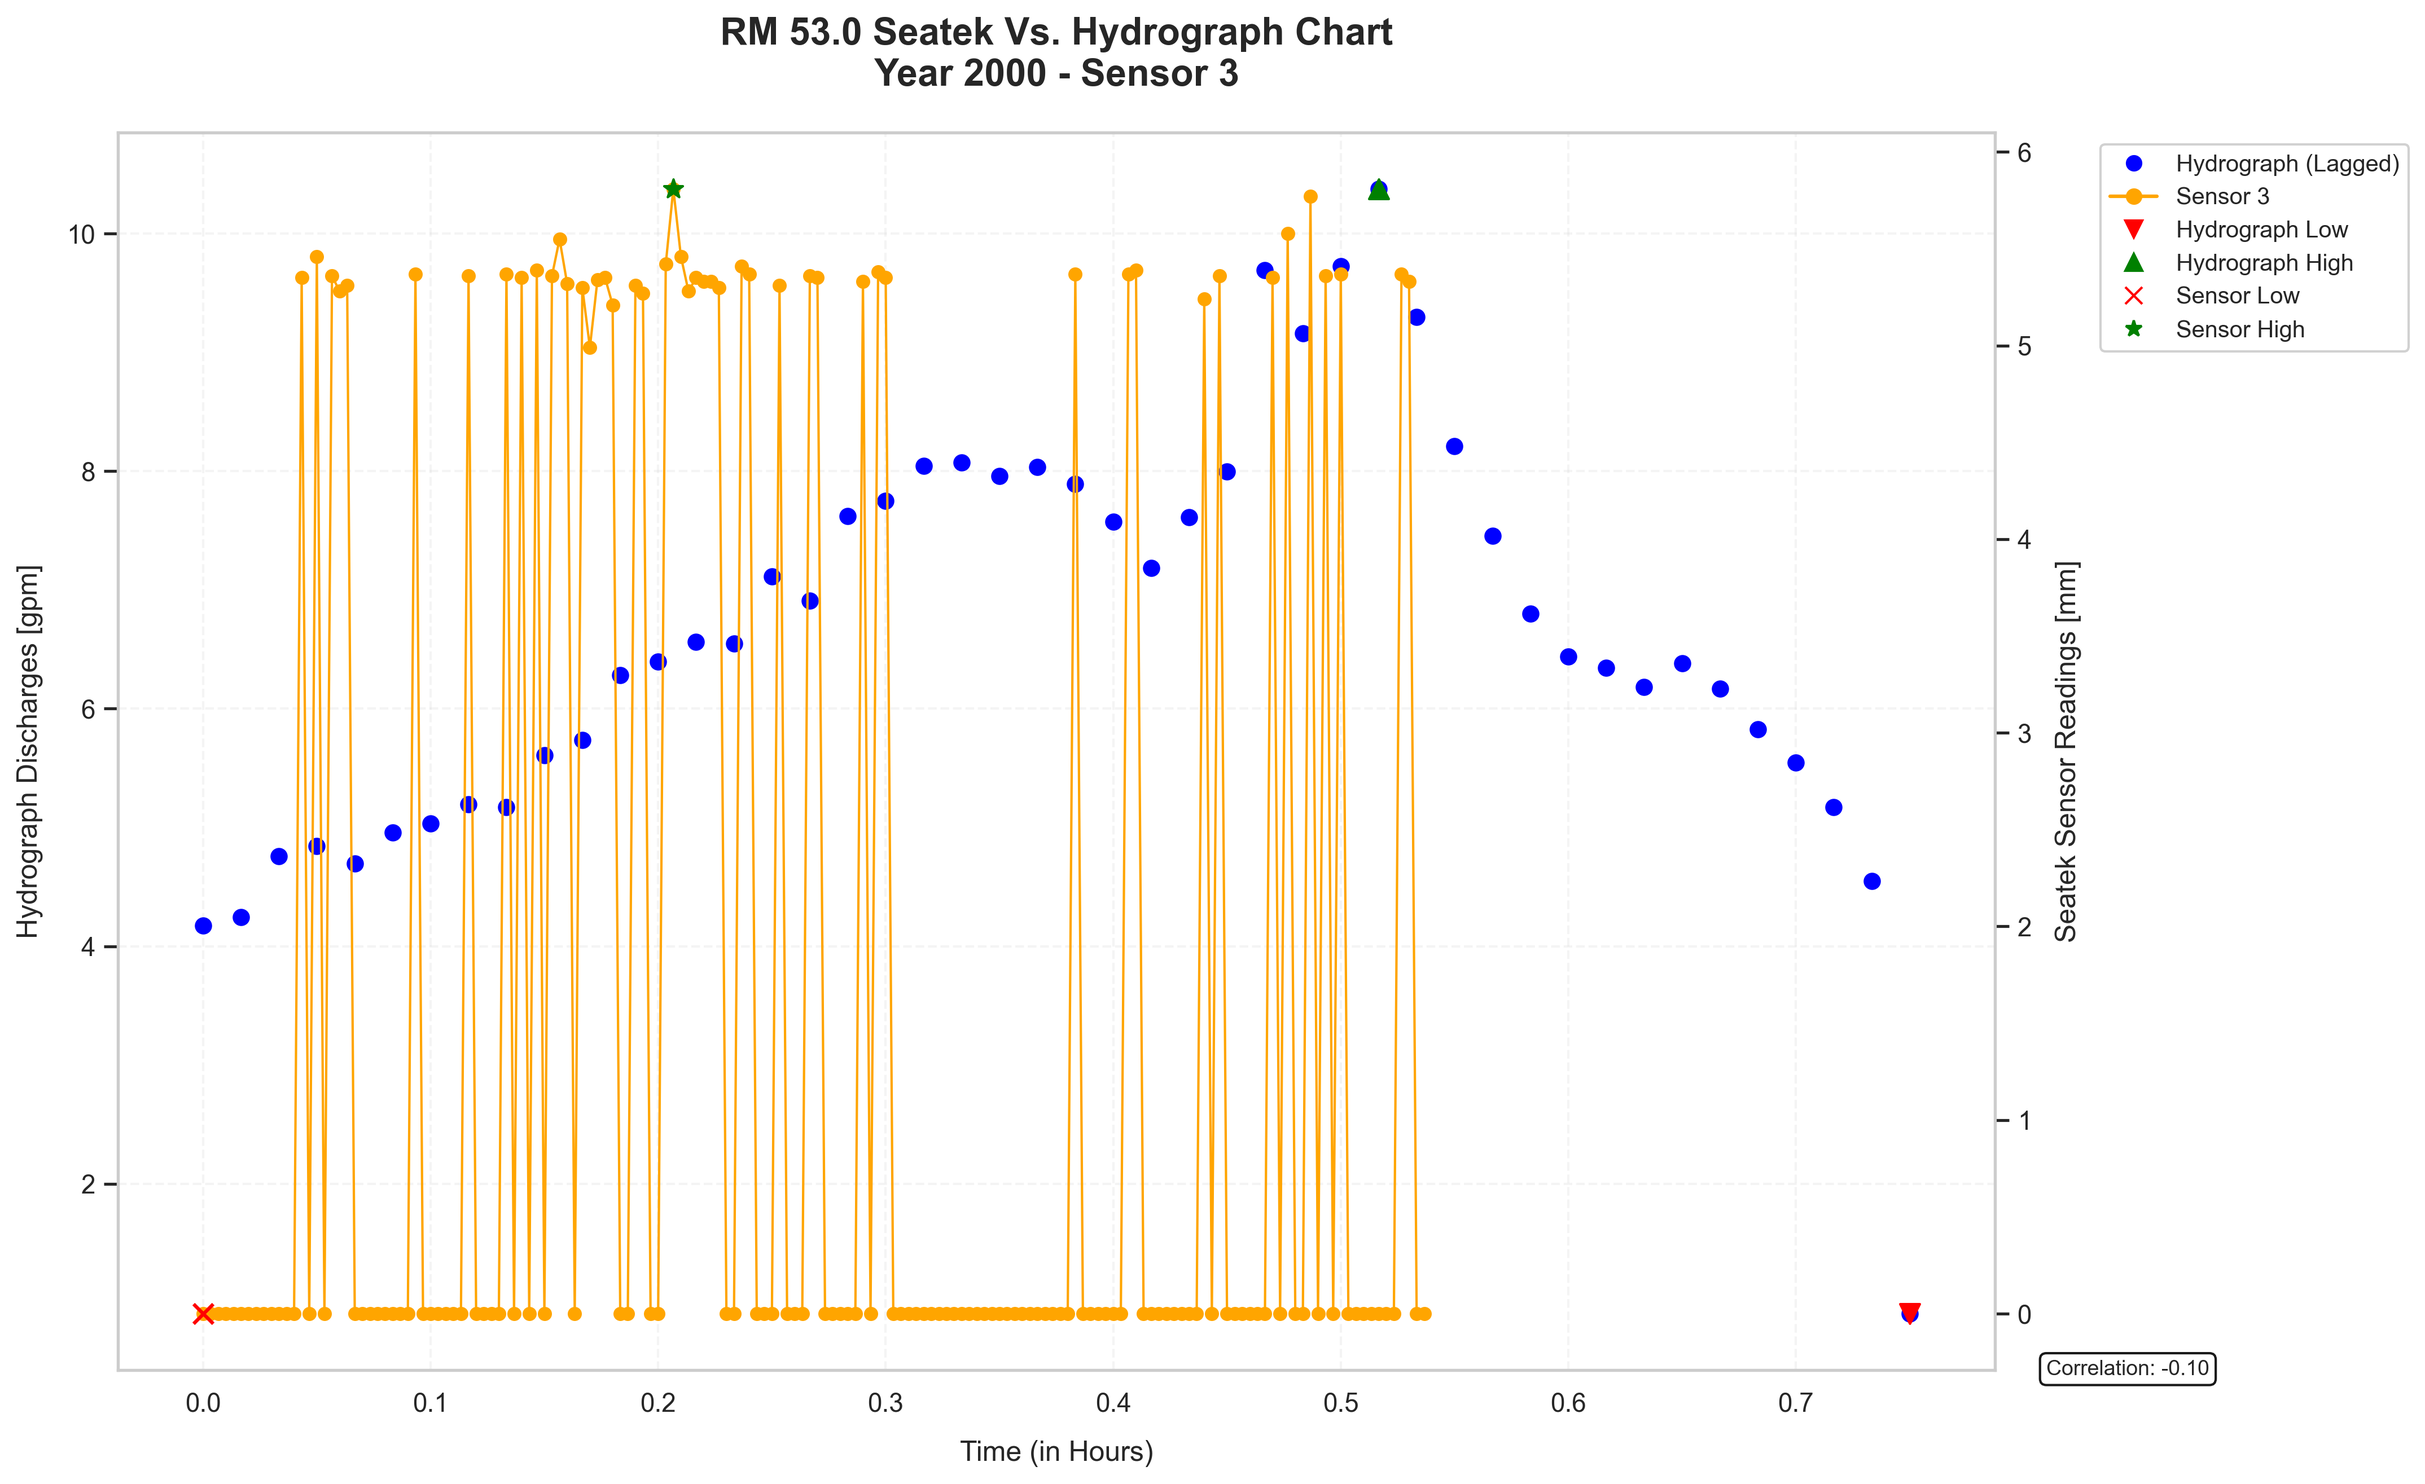
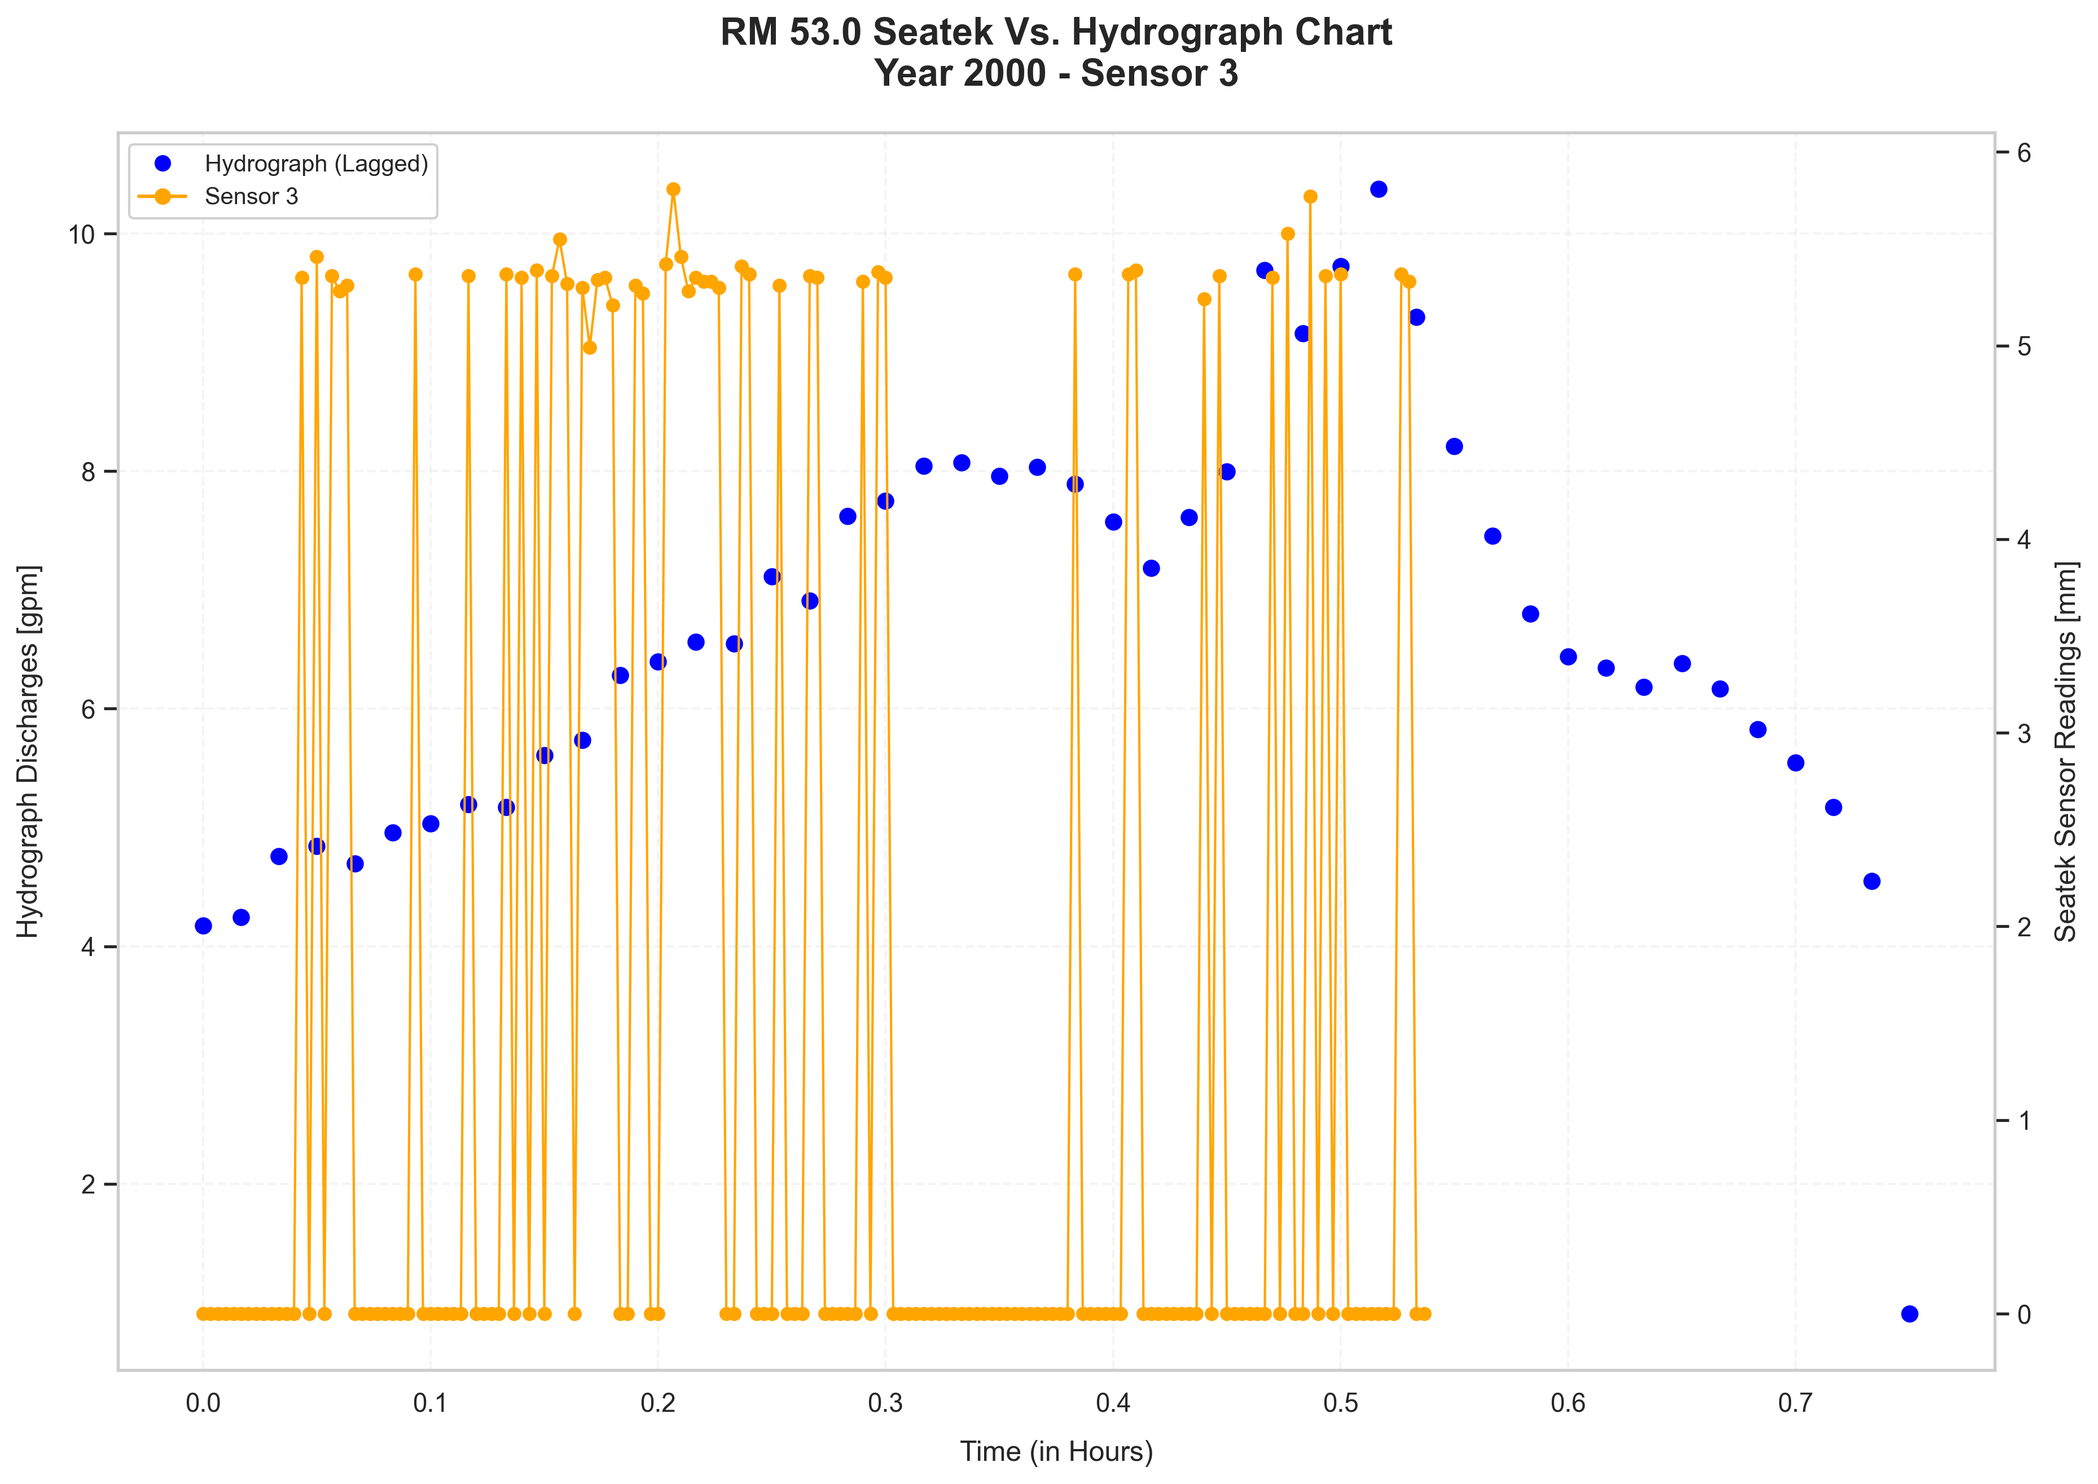
Fix indentation and type mismatch issues
- Corrected indentation and ensured 'continue' statements are inside loops.
- Removed duplicate error message print statements.
- Converted list to tuple of floats to match expected type.

diff --git a/scripts/visualizer.py b/scripts/visualizer.py
@@ -13,12 +13,14 @@ Usage:
     Run the script directly to generate the charts.
 """
 
-
 import os
 import matplotlib.pyplot as plt
 import pandas as pd
 import seaborn as sns
 from matplotlib.lines import Line2D
+
+def calculate_percentage_change(data):
+    return data.pct_change().abs()
 
 def process_rm_data(rm_data, rm, year, sensor):
     # Filter data for the specific year
@@ -32,19 +34,17 @@ def process_rm_data(rm_data, rm, year, sensor):
         print(f"No valid hydrograph or sensor data for RM {rm}, Year {year}. Skipping.")
         return
     
-    # Set style and figure size (reduced width)
+    # Set style and figure size
     sns.set_theme(style="whitegrid")
-    fig, ax1 = plt.subplots(figsize=(14, 8))  # Reduced width to minimize white space
-    fig.patch.set_facecolor('white')  # White background
+    fig, ax1 = plt.subplots(figsize=(15, 8))
+    fig.patch.set_facecolor('white')
     
-    # Use tight layout to minimize unnecessary padding
-    plt.tight_layout(rect=[0, 0, 0.85, 1])  # Adjust right side for legend without excessive white space
+    plt.subplots_adjust(right=0.85, left=0.1, bottom=0.12, top=0.9)
     
     time_hours = year_data["Time_(Seconds)"] / 3600
     
     # Plot hydrograph data (blue points)
     mask_hydro = pd.notna(year_data["Hydrograph_(Lagged)"])
-    
     if any(mask_hydro):
         ax1.scatter(time_hours[mask_hydro],
                     year_data["Hydrograph_(Lagged)"][mask_hydro],
@@ -57,12 +57,10 @@ def process_rm_data(rm_data, rm, year, sensor):
     ax1.set_ylabel('Hydrograph Discharges [gpm]', fontsize=12, labelpad=10)
     ax1.grid(True, alpha=0.2, linestyle='--')
     
-    # Create second y-axis for sensor data
     ax2 = ax1.twinx()
     
     # Plot sensor data (orange lines and points)
     mask_sensor = pd.notna(year_data[sensor])
-    
     if any(mask_sensor):
         ax2.plot(time_hours[mask_sensor],
                  year_data[sensor][mask_sensor],
@@ -77,28 +75,21 @@ def process_rm_data(rm_data, rm, year, sensor):
                     color='orange',
                     s=25,
                     zorder=2)
-        
-        ax2.set_ylabel('Seatek Sensor Readings [mm]', fontsize=12, labelpad=10)
-        ax2.grid(False)
     
-    # Calculate and display correlation only once
+    ax2.set_ylabel('Seatek Sensor Readings [mm]', fontsize=12, labelpad=10)
+    ax2.grid(False)
+    
     valid_mask = mask_hydro & mask_sensor
-    
     if sum(valid_mask) > 1:
         correlation = year_data["Hydrograph_(Lagged)"][valid_mask].corr(year_data[sensor][valid_mask])
-        
-        # Display correlation box in a better position and only once
-        plt.figtext(0.92, 0.05, f'Correlation: {correlation:.2f}',
-                    fontsize=9,
+        plt.figtext(0.87, 0.02, f'Correlation: {correlation:.2f}',
+                    fontsize=10,
                     bbox=dict(facecolor='white',
                               edgecolor='black',
                               alpha=0.9,
                               pad=5,
-                              boxstyle='round,pad=0.3'),
-                    horizontalalignment='right',
-                    verticalalignment='bottom')
+                              boxstyle='round'))
     
-    # Add min/max points for both hydrograph and sensor data
     if any(mask_hydro):
         hydro_data = year_data["Hydrograph_(Lagged)"][mask_hydro]
         ax1.scatter(time_hours[hydro_data.idxmin()], hydro_data.min(),
@@ -113,19 +104,14 @@ def process_rm_data(rm_data, rm, year, sensor):
         ax2.scatter(time_hours[sensor_data.idxmax()], sensor_data.max(),
                     color='green', s=70, zorder=4, marker='*', label='Sensor High')
     
-    # Title with padding
     plt.title(f"RM {rm} Seatek Vs. Hydrograph Chart\nYear {year} - {sensor.replace('_', ' ')}",
               fontsize=16, fontweight='bold', pad=20)
     
-    # Legend elements (cleaned up)
     legend_elements = [
             Line2D([0], [0], color='blue', linestyle='None', marker='o',
                    label='Hydrograph (Lagged)', markersize=6),
-            
-            # Updated sensor entry to include both line and marker
             Line2D([0], [0], color='orange', linestyle='-', marker='o',
                    label=sensor.replace('_', ' '), markersize=6),
-            
             Line2D([0], [0], color='red', linestyle='None', marker='v',
                    label='Hydrograph Low', markersize=7),
             Line2D([0], [0], color='green', linestyle='None', marker='^',
@@ -136,82 +122,89 @@ def process_rm_data(rm_data, rm, year, sensor):
                    label='Sensor High', markersize=7)
             ]
     
-    # Move legend closer to plot without overlap or excessive white space
     ax1.legend(handles=legend_elements,
-               bbox_to_anchor=(1.05, 1),  # Moved closer to plot but still outside
-               loc="upper left",
+               bbox_to_anchor=(1.0, 1.0),
+               loc='upper right',
                fontsize=10,
                ncol=1,
+               title="Legend",
                framealpha=0.9)
     
-    # Save plot
+    if sum(valid_mask) > 1:
+        correlation = year_data["Hydrograph_(Lagged)"][valid_mask].corr(year_data[sensor][valid_mask])
+        plt.figtext(0.98, 0.02, f'Correlation: {correlation:.2f}',
+                    fontsize=9,
+                    bbox=dict(facecolor='white',
+                              edgecolor='black',
+                              alpha=0.9,
+                              pad=3,
+                              boxstyle='round,pad=0.3'),
+                    horizontalalignment='right',
+                    verticalalignment='bottom')
+    
+    plt.subplots_adjust(right=0.85, left=0.1, bottom=0.12, top=0.9)
+    
     output_dir = "output"
     os.makedirs(output_dir, exist_ok=True)
-    
     plt.savefig(os.path.join(output_dir, f"RM_{rm}_Year_{year}_{sensor}.png"),
                 dpi=300, bbox_inches="tight")
-    
     plt.close()
-
 
 def main():
     os.makedirs("output", exist_ok=True)
     data_summary_path = 'data/Data_Summary.xlsx'
-
+    
     if not os.path.exists(data_summary_path):
         print(f"File not found: {data_summary_path}")
         return
-
+    
     data_summary = pd.read_excel(data_summary_path)
-
+    
     for _, row in data_summary.iterrows():
         rm = row["River_Mile"]
         if pd.isna(rm):
             continue
-
+        
         print(f"Processing River Mile: {rm}")
-
-        # Handle different year formats
+        
         start_year = int(str(row["Start_Year"]).split()[0])
         end_year = int(str(row["End_Year"]).split()[0])
-
+        
         try:
             rm_file_path = f'data/RM_{rm}.xlsx'
             if not os.path.exists(rm_file_path):
                 print(f"File not found: {rm_file_path}")
                 continue
-
+            
             rm_data = pd.read_excel(rm_file_path)
             print(f"Loaded data for RM {rm}")
-
-            # Find all sensor columns in the data
+            
             available_sensors = [col for col in rm_data.columns if col.startswith('Sensor_')]
-
+            
             if not available_sensors:
                 print(f"No sensor columns found in data for RM {rm}")
                 continue
-
+            
             print(f"Found sensors: {available_sensors}")
-
-            # Convert Year column to numeric, handling any string values
+            
             rm_data["Year"] = pd.to_numeric(rm_data["Year"], errors='coerce')
-
+            
             for year in range(start_year, end_year + 1):
                 year_data = rm_data[rm_data["Year"] == year]
                 if not year_data.empty:
                     for sensor in available_sensors:
-                        # Check if we have any valid data for this sensor or hydrograph
                         sensor_data = year_data[sensor].dropna()
                         hydro_data = year_data["Hydrograph_(Lagged)"].dropna()
-
+                        
                         if not sensor_data.empty or not hydro_data.empty:
                             print(f"Processing RM {rm}, Year {year}, {sensor}")
                             process_rm_data(rm_data, rm, year, sensor)
                         else:
                             print(f"No valid data for {sensor} or Hydrograph in RM {rm}, Year {year}")
-
+        
         except Exception as e:
             print(f"Error processing RM {rm}: {str(e)}")
 
 if __name__ == "__main__":
     main()
+    

diff --git a/scripts/updated_visualizer.py b/scripts/updated_visualizer.py
@@ -1,0 +1,173 @@
+# scripts/visualizer.py
+"""
+This script visualizes sensor data against hydrograph data for different river miles (RM) and years.
+
+Functions:
+    process_rm_data(data, rm, year, sensors):
+        Processes and plots sensor data against hydrograph data for a specific river mile (RM) and year.
+        Save the plot as a PNG file in the output directory.
+    Main():
+        Main function that loads the summary data, iterates through each row, and generates plots for each river mile (RM) and year range specified in the summary.
+
+Usage:
+    Run the script directly to generate the charts.
+"""
+
+import os
+import matplotlib.pyplot as plt
+import pandas as pd
+import seaborn as sns
+from matplotlib.lines import Line2D
+
+def process_rm_data(rm_data, rm, year, sensor):
+	# Filter data for the specific year
+	year_data = rm_data[rm_data["Year"] == year].copy()
+	
+	if year_data.empty:
+		print(f"No data for RM {rm}, Year {year}. Skipping chart generation.")
+		return
+	
+	if not any(pd.notna(year_data["Hydrograph_(Lagged)"])) and not any(pd.notna(year_data[sensor])):
+		print(f"No valid hydrograph or sensor data for RM {rm}, Year {year}. Skipping.")
+		return
+	
+	# Set style and figure size (reduced width)
+	sns.set_theme(style="whitegrid")
+	fig, ax1 = plt.subplots(figsize=(14, 8))  # Reduced width to minimize white space
+	fig.patch.set_facecolor('white')  # White background
+	
+	# Use tight layout to minimize unnecessary padding
+	plt.tight_layout(rect=(0, 0, 0.85, 1))  # Adjust the right side for legend without excessive white space
+	
+	time_hours = year_data["Time_(Seconds)"] / 3600
+	
+	# Plot hydrograph data (blue points)
+	mask_hydro = pd.notna(year_data["Hydrograph_(Lagged)"])
+	
+	if any(mask_hydro):
+		ax1.scatter(time_hours[mask_hydro],
+		            year_data["Hydrograph_(Lagged)"][mask_hydro],
+		            color='blue',
+		            label='Hydrograph (Lagged)',
+		            s=40,
+		            zorder=3)
+	
+	ax1.set_xlabel('Time (in Hours)', fontsize=12, labelpad=10)
+	ax1.set_ylabel('Hydrograph Discharges [gpm]', fontsize=12, labelpad=10)
+	ax1.grid(True, alpha=0.2, linestyle='--')
+	
+	# Create second y-axis for sensor data
+	ax2 = ax1.twinx()
+	
+	# Plot sensor data (orange lines and points)
+	mask_sensor = pd.notna(year_data[sensor])
+	
+	if any(mask_sensor):
+		ax2.plot(time_hours[mask_sensor],
+		         year_data[sensor][mask_sensor],
+		         color='orange',
+		         label=sensor.replace('_', ' '),
+		         linewidth=1.0,
+		         linestyle='-',
+		         zorder=1)
+		
+		ax2.scatter(time_hours[mask_sensor],
+		            year_data[sensor][mask_sensor],
+		            color='orange',
+		            s=25,
+		            zorder=2)
+		
+		ax2.set_ylabel('Seatek Sensor Readings [mm]', fontsize=12, labelpad=10)
+		ax2.grid(False)
+	
+	# Title with padding
+	plt.title(f"RM {rm} Seatek Vs. Hydrograph Chart\nYear {year} - {sensor.replace('_', ' ')}",
+	          fontsize=16, fontweight='bold', pad=20)
+	
+	# Legend elements (cleaned up)
+	legend_elements = [
+			Line2D([0], [0], color='blue', linestyle='None', marker='o',
+			       label='Hydrograph (Lagged)', markersize=6),
+			
+			# Updated sensor entry to include both line and marker
+			Line2D([0], [0], color='orange', linestyle='-', marker='o',
+			       label=sensor.replace('_', ' '), markersize=6)
+			]
+	
+	# Move legend to the top-left corner of the plot
+	ax1.legend(handles=legend_elements,
+	           loc="upper left",  # Positioning the legend in the upper-left corner
+	           fontsize=10,
+	           ncol=1,
+	           framealpha=0.9)
+	
+	# Save plot
+	output_dir = "output"
+	os.makedirs(output_dir, exist_ok=True)
+	
+	plt.savefig(os.path.join(output_dir, f"RM_{rm}_Year_{year}_{sensor}.png"),
+	            dpi=300, bbox_inches="tight")
+	
+	plt.close()
+
+def main():
+	os.makedirs("output", exist_ok=True)
+	data_summary_path = 'data/Data_Summary.xlsx'
+	
+	if not os.path.exists(data_summary_path):
+		print(f"File not found: {data_summary_path}")
+		return
+	
+	data_summary = pd.read_excel(data_summary_path)
+	
+	for _, row in data_summary.iterrows():
+		rm = row["River_Mile"]
+		if pd.isna(rm):
+			continue
+		
+		print(f"Processing River Mile: {rm}")
+		
+		# Handle different year formats
+		start_year = int(str(row["Start_Year"]).split()[0])
+		end_year = int(str(row["End_Year"]).split()[0])
+		
+		try:
+			rm_file_path = f'data/RM_{rm}.xlsx'
+			if not os.path.exists(rm_file_path):
+				print(f"File not found: {rm_file_path}")
+				continue
+			
+			rm_data = pd.read_excel(rm_file_path)
+			print(f"Loaded data for RM {rm}")
+			
+			# Find all sensor columns in the data
+			available_sensors = [col for col in rm_data.columns if col.startswith('Sensor_')]
+			
+			if not available_sensors:
+				print(f"No sensor columns found in data for RM {rm}")
+				continue
+			
+			print(f"Found sensors: {available_sensors}")
+			
+			# Convert Year column to numeric, handling any string values
+			rm_data["Year"] = pd.to_numeric(rm_data["Year"], errors='coerce')
+			
+			for year in range(start_year, end_year + 1):
+				year_data = rm_data[rm_data["Year"] == year]
+				if not year_data.empty:
+					for sensor in available_sensors:
+						# Check if we have any valid data for this sensor or hydrograph
+						sensor_data = year_data[sensor].dropna()
+						hydro_data = year_data["Hydrograph_(Lagged)"].dropna()
+						
+						if not sensor_data.empty or not hydro_data.empty:
+							print(f"Processing RM {rm}, Year {year}, {sensor}")
+							process_rm_data(rm_data, rm, year, sensor)
+						else:
+							print(f"No valid data for {sensor} or Hydrograph in RM {rm}, Year {year}")
+		
+		except Exception as e:
+			print(f"Error processing RM {rm}: {str(e)}")
+
+if __name__ == "__main__":
+	main()
